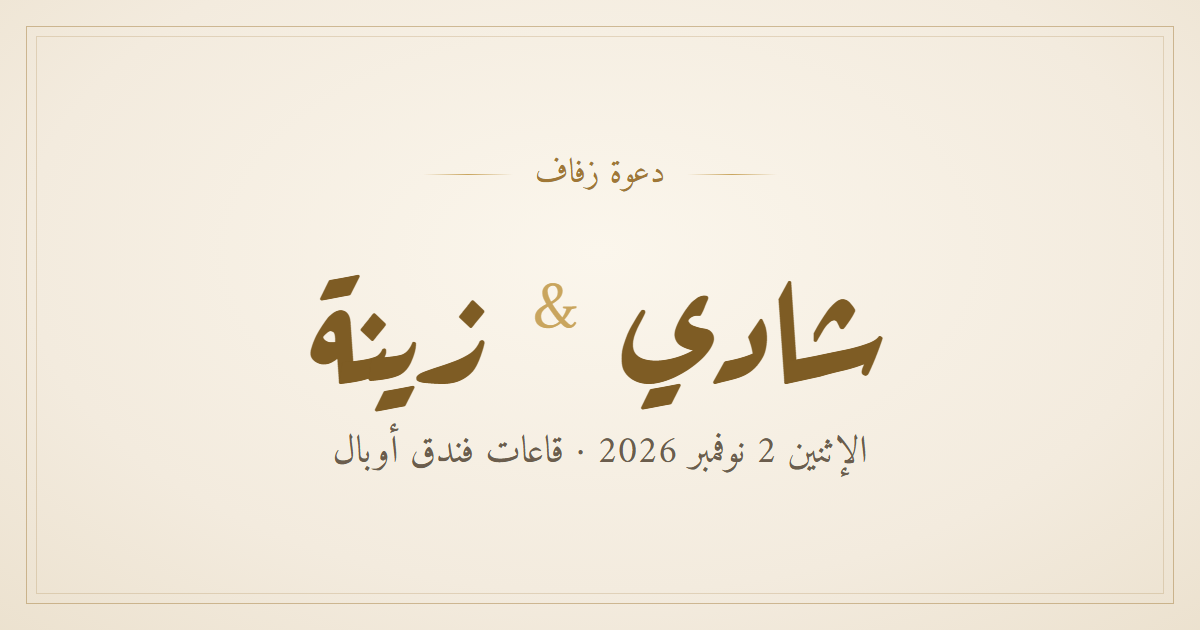
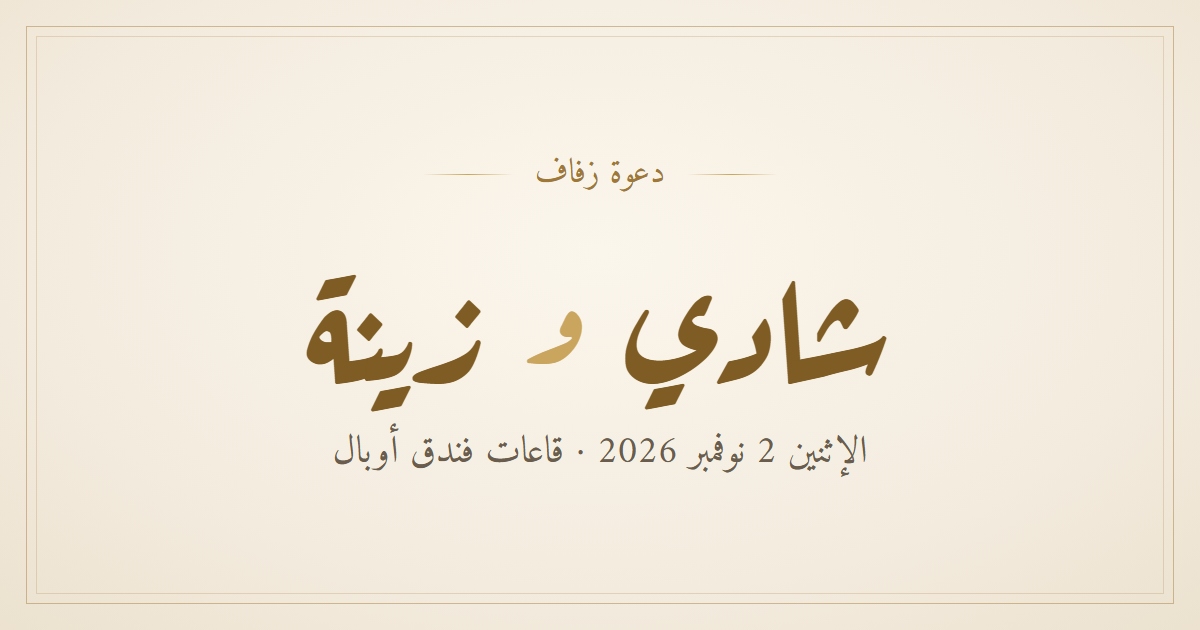
Instant guest names, envelope letter reveal, S-heart-Z seal, rose pattern

diff --git a/index.html b/index.html
@@ -3,12 +3,12 @@
 <head>
 <meta charset="utf-8">
 <meta name="viewport" content="width=device-width,initial-scale=1,viewport-fit=cover">
-<title>دعوة زفاف شادي & زينة</title>
+<title>دعوة زفاف شادي و زينة</title>
 <meta name="description" content="الإثنين 2 نوفمبر 2026 · قاعات فندق أوبال">
 <meta name="theme-color" content="#F3EBDE">
 <meta name="robots" content="noindex,nofollow">
 <meta property="og:type" content="website">
-<meta property="og:title" content="دعوة زفاف شادي & زينة">
+<meta property="og:title" content="دعوة زفاف شادي و زينة">
 <meta property="og:description" content="الإثنين 2 نوفمبر 2026 · قاعات فندق أوبال">
 <meta property="og:image" content="https://shadyzeina.com/assets/og.png">
 <meta property="og:image:width" content="1200">
@@ -19,7 +19,9 @@
 <link rel="apple-touch-icon" href="assets/icon-180.png">
 <link rel="preconnect" href="https://fonts.googleapis.com">
 <link rel="preconnect" href="https://fonts.gstatic.com" crossorigin>
-<link rel="stylesheet" href="https://fonts.googleapis.com/css2?family=Amiri:ital,wght@0,400;0,700;1,400&family=Aref+Ruqaa:wght@400;700&family=Tajawal:wght@400;500;700&display=swap">
+<link rel="preconnect" href="https://script.google.com">
+<link rel="preconnect" href="https://script.googleusercontent.com">
+<link rel="stylesheet" href="https://fonts.googleapis.com/css2?family=Amiri:ital,wght@0,400;0,700;1,400&family=Aref+Ruqaa:wght@400;700&family=Tajawal:wght@400;500;700&family=Cormorant+Garamond:ital,wght@1,600&display=swap">
 <style>
   :root{
     color-scheme:light;
@@ -53,7 +55,7 @@
   body{
     margin:0;
     min-height:100vh;
-    background:var(--paper);
+    background:url(assets/pattern.svg) 0 0/300px 300px repeat,var(--paper);
     color:var(--ink);
     font-family:var(--ui);
     font-size:16px;
@@ -79,7 +81,8 @@
     display:flex;align-items:center;justify-content:center;
     padding:24px 16px calc(24px + env(safe-area-inset-bottom));
     background:
-      radial-gradient(80% 55% at 50% 40%,#FAF4E9 0%,var(--paper) 70%),
+      radial-gradient(46% 30% at 50% 44%,rgba(250,244,233,.9) 0%,rgba(250,244,233,0) 100%),
+      url(assets/pattern.svg) 0 0/300px 300px repeat,
       var(--paper);
     transition:opacity .7s ease, visibility 0s linear .7s;
   }
@@ -110,16 +113,20 @@
   }
   .env-letter{
     left:7%;right:7%;top:8%;bottom:6%;
+    z-index:1;
     background:var(--card);
     border-radius:3px;
-    border:1px solid var(--line-soft);
-    display:flex;align-items:flex-start;justify-content:center;
-    padding-top:12px;
-    transition:transform .9s var(--ease);
+    border:1px solid var(--line);
+    box-shadow:0 0 0 4px var(--card) inset,0 0 0 5px var(--line-soft) inset;
+    display:flex;flex-direction:column;align-items:center;justify-content:flex-start;gap:0;
+    padding-top:14px;
+    text-align:center;
   }
-  .env-letter svg{width:46%;height:auto;opacity:.9;}
+  .env-letter .l-eyebrow{font-family:var(--naskh);font-size:.8rem;color:var(--gold);}
+  .env-letter .l-names{font-family:var(--ruqaa);font-weight:700;font-size:1.7rem;line-height:1.5;color:var(--gold-dk);}
+  .env-letter .l-date{font-size:.68rem;letter-spacing:.12em;color:var(--ink-3);direction:ltr;}
   .env-front{
-    inset:0;border-radius:6px;
+    inset:0;border-radius:6px;z-index:2;
     background:linear-gradient(180deg,#EFE3CC 0%,#EADBC0 100%);
     clip-path:polygon(0 0,50% 58%,100% 0,100% 100%,0 100%);
   }
@@ -141,7 +148,7 @@
     border-radius:6px 6px 0 0;
   }
   .seal{
-    position:absolute;z-index:4;
+    position:absolute;z-index:7;
     left:50%;top:62%;
     width:76px;height:76px;margin:-38px 0 0 -38px;
     border-radius:50%;border:0;padding:0;cursor:pointer;
@@ -160,7 +167,8 @@
   }
   .seal:hover{transform:scale(1.05);}
   .seal:focus-visible{outline:2px solid var(--gold);outline-offset:4px;}
-  .seal span{display:block;transform:translateY(2px);}
+  .seal .sz{display:flex;align-items:center;gap:1px;font-family:"Cormorant Garamond",Georgia,serif;font-style:italic;font-weight:600;font-size:1.55rem;letter-spacing:.02em;transform:translateY(-1px);}
+  .seal .sz svg{width:14px;height:14px;fill:none;stroke:#FFF7E4;stroke-width:2.2;stroke-linejoin:round;margin:2px 1px 0;filter:drop-shadow(0 1px 1px rgba(80,58,24,.5));}
   @keyframes breathe{
     0%,100%{box-shadow:0 0 0 3px rgba(255,248,230,.35) inset,0 0 0 6px rgba(126,92,36,.25) inset,0 6px 14px rgba(80,58,24,.35),0 0 0 0 rgba(201,165,94,.45);}
     50%{box-shadow:0 0 0 3px rgba(255,248,230,.35) inset,0 0 0 6px rgba(126,92,36,.25) inset,0 6px 14px rgba(80,58,24,.35),0 0 0 12px rgba(201,165,94,0);}
@@ -168,7 +176,13 @@
 
   .intro.opening .seal{animation:sealOff .45s ease forwards;}
   .intro.opening .env-flap{animation:flapOpen .75s var(--ease) .3s forwards;}
-  .intro.opening .env-letter{transform:translateY(-46%);transition-delay:.85s;}
+  .intro.opening .env-letter{animation:letterOut 1.9s var(--ease) .85s forwards;}
+  @keyframes letterOut{
+    0%{transform:translateY(0);z-index:1;}
+    42%{transform:translateY(-78%);z-index:1;}
+    43%{transform:translateY(-78%);z-index:6;}
+    100%{transform:translateY(4%) scale(1.16);z-index:6;box-shadow:0 0 0 4px var(--card) inset,0 0 0 5px var(--line-soft) inset,0 18px 40px rgba(80,58,24,.22);}
+  }
   @keyframes sealOff{to{transform:scale(.4);opacity:0;}}
   @keyframes flapOpen{
     0%{transform:rotateX(0);z-index:3;}
@@ -208,7 +222,7 @@
 
   .card{
     position:relative;
-    background:var(--card);
+    background:rgba(251,247,240,.9);
     border:1px solid var(--line);
     border-radius:4px;
     padding:44px clamp(20px,6vw,40px) 40px;
@@ -272,7 +286,7 @@
     font-size:clamp(2.7rem,12vw,3.6rem);line-height:1.5;color:var(--gold-dk);
     margin:0;
   }
-  .couple .amp{font-family:var(--naskh);font-weight:400;font-size:.55em;color:var(--gold-lt);}
+  .couple .amp{font-family:var(--ruqaa);font-weight:700;font-size:.72em;color:var(--gold-lt);}
   .dua{
     margin:14px auto 0;max-width:24rem;
     font-family:var(--naskh);font-size:1.15rem;line-height:1.9;color:var(--ink-2);
@@ -491,10 +505,10 @@
 
     <div class="envelope" aria-hidden="false">
       <div class="env-back"></div>
-      <div class="env-letter"><svg viewBox="0 0 200 200" class="mono-mini"></svg></div>
+      <div class="env-letter"><span class="l-eyebrow">دعوة زفاف</span><span class="l-names">شادي و زينة</span><span class="l-date">2 . 11 . 2026</span></div>
       <div class="env-front"></div>
       <div class="env-flap"></div>
-      <button class="seal" id="seal" type="button" aria-label="فتح الدعوة"><span>ش ز</span></button>
+      <button class="seal" id="seal" type="button" aria-label="فتح الدعوة"><span class="sz" dir="ltr">S<svg viewBox="0 0 24 24" aria-hidden="true"><path d="M12 20.4S3.6 14.4 3.6 9A4.5 4.5 0 0 1 12 6.7 4.5 4.5 0 0 1 20.4 9c0 5.4-8.4 11.4-8.4 11.4z"/></svg>Z</span></button>
     </div>
 
     <div class="intro-to">
@@ -534,7 +548,7 @@
       <div class="father"><small>السيد</small><b>طارق سنقرط</b></div>
     </div>
     <p class="invite-line">بدعوتكم لحضور حفل زفاف نجليهما</p>
-    <p class="couple"><span>شادي</span><span class="amp">&amp;</span><span>زينة</span></p>
+    <p class="couple"><span>شادي</span><span class="amp">و</span><span>زينة</span></p>
     <p class="dua">بارك الله لكما وبارك عليكما وجمع بينكما في خير</p>
   </section>
 
@@ -575,7 +589,7 @@
       <b>حرصاً على راحتكم</b>
       <span>يُمنع التصوير، ونرجو التكرّم بعدم اصطحاب الأطفال</span>
     </div>
-    <p class="sign"><span>شادي &amp; زينة</span><br>2 . 11 . 2026</p>
+    <p class="sign"><span>شادي و زينة</span><br>2 . 11 . 2026</p>
     <svg class="corner bl"><use href="#vine"/></svg>
     <svg class="corner br"><use href="#vine"/></svg>
   </section>
@@ -643,7 +657,7 @@
     html += '<circle cx="100" cy="100" r="69" fill="none" stroke="url(#goldline)" stroke-width=".5" opacity=".7"/>';
     if (full){
       html += '<text x="100" y="86" text-anchor="middle" font-family="Aref Ruqaa, Amiri, serif" font-weight="700" font-size="36" fill="#7E5C24">شادي</text>';
-      html += '<text x="100" y="108" text-anchor="middle" font-family="Amiri, serif" font-size="18" fill="#C9A55E">&amp;</text>';
+      html += '<text x="100" y="113" text-anchor="middle" font-family="Aref Ruqaa, Amiri, serif" font-weight="700" font-size="30" fill="#C9A55E">و</text>';
       html += '<text x="100" y="140" text-anchor="middle" font-family="Aref Ruqaa, Amiri, serif" font-weight="700" font-size="36" fill="#7E5C24">زينة</text>';
       html += '<text x="100" y="160" text-anchor="middle" font-family="Tajawal, sans-serif" font-size="9" letter-spacing="2" fill="#8A7A64" direction="ltr">02 · 11 · 2026</text>';
     } else {
@@ -652,7 +666,6 @@
     svg.innerHTML = html;
   }
   buildMonogram(document.querySelector(".monogram"), true);
-  buildMonogram(document.querySelector(".mono-mini"), false);
 
   /* ------------------------------------------------------------ backend */
   var mockDB = {
@@ -717,17 +730,53 @@
   function setName(){
     var el = $("intro-name");
     if (!CODE){ $("intro-to-label").textContent = ""; el.textContent = "ضيوفنا الأعزاء"; return; }
-    if (state){ el.textContent = state.name; document.title = state.name + " · دعوة زفاف شادي & زينة"; }
+    if (state){ el.textContent = state.name; document.title = state.name + " · دعوة زفاف شادي و زينة"; }
     else if (loadError){ $("intro-to-label").textContent = ""; el.textContent = "ضيوفنا الأعزاء"; }
   }
 
+  /* Guest names ship inside the page, each encrypted with a key derived from that guest's own
+     code, so the name shows instantly while the public page holds no readable guest list. */
[1 lines of base64/hex data omitted]
+  function b64d(s){ var b = atob(s), u = new Uint8Array(b.length); for (var i = 0; i < b.length; i++) u[i] = b.charCodeAt(i); return u; }
+  function hex(u){ return Array.prototype.map.call(u, function(x){ return ("0" + x.toString(16)).slice(-2); }).join(""); }
+  function localGuest(code){
+    if (!GUESTS.e || !window.crypto || !crypto.subtle) return Promise.resolve(null);
+    var enc = new TextEncoder();
+    return crypto.subtle.importKey("raw", enc.encode(code), "PBKDF2", false, ["deriveBits"]).then(function(base){
+      return crypto.subtle.deriveBits({ name:"PBKDF2", salt:b64d(GUESTS.s), iterations:GUESTS.k, hash:"SHA-256" }, base, 384);
+    }).then(function(buf){
+      var bits = new Uint8Array(buf), blob = GUESTS.e[hex(bits.slice(32))];
+      if (!blob) return null;
+      var raw = b64d(blob);
+      return crypto.subtle.importKey("raw", bits.slice(0, 32), "AES-GCM", false, ["decrypt"]).then(function(key){
+        return crypto.subtle.decrypt({ name:"AES-GCM", iv:raw.slice(0, 12) }, key, raw.slice(12));
+      }).then(function(pt){ return JSON.parse(new TextDecoder().decode(pt)); });
+    }).catch(function(){ return null; });
+  }
+
+  var touched = false;   // guest has started filling the form
   function load(){
     if (!CODE){ setName(); renderRSVP(); return; }
     var cached = store("inv:" + CODE);
     if (cached && cached.name){ state = cached; setName(); renderRSVP(); }
+    else {
+      localGuest(CODE).then(function(g){
+        if (g && !state){
+          state = { ok:true, code:CODE, name:g.n, invited:g.c, status:"", count:0, note:"", provisional:true };
+          setName(); renderRSVP();
+        }
+      });
+    }
     apiGet(CODE).then(function(res){
-      if (res && res.ok){ state = res; store("inv:" + CODE, res); loadError = ""; }
-      else { loadError = (res && res.error) || "error"; if (loadError === "not_found") state = null; }
+      if (res && res.ok){
+        var quiet = state && state.provisional && touched && !res.status && res.invited === state.invited;
+        state = res; store("inv:" + CODE, res); loadError = "";
+        setName();
+        if (!quiet) renderRSVP();
+        return;
+      }
+      loadError = (res && res.error) || "error";
+      if (loadError === "not_found"){ state = null; try { localStorage.removeItem("inv:" + CODE); } catch(e){} }
       setName(); renderRSVP();
     }).catch(function(){
       if (!state){ loadError = "network"; setName(); renderRSVP(); }
@@ -800,6 +849,8 @@
       $("submit").disabled = !v;
     }
     form.addEventListener("change", sync); sync();
+    form.addEventListener("input", function(){ touched = true; });
+    form.addEventListener("change", function(){ touched = true; });
     var ce = $("cancel-edit"); if (ce) ce.onclick = function(){ editing = false; renderRSVP(); };
 
     form.addEventListener("submit", function(ev){
@@ -925,7 +976,7 @@
       $("page").removeAttribute("aria-hidden");
       $("dock").classList.add("show");
       revealAll();
-    }, reduce ? 50 : 1650);
+    }, reduce ? 50 : 3100);
   }
   $("seal").addEventListener("click", openInvite);
   document.querySelector(".envelope").addEventListener("click", openInvite);
